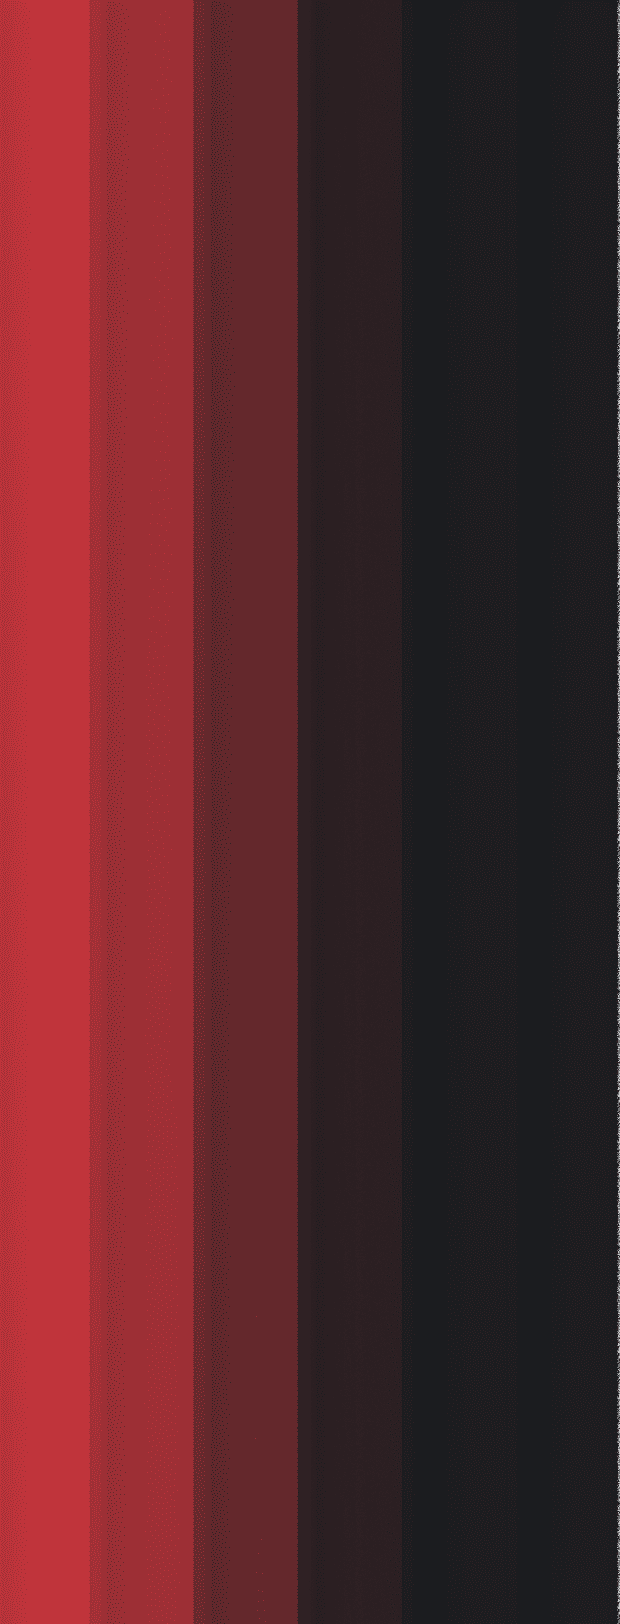
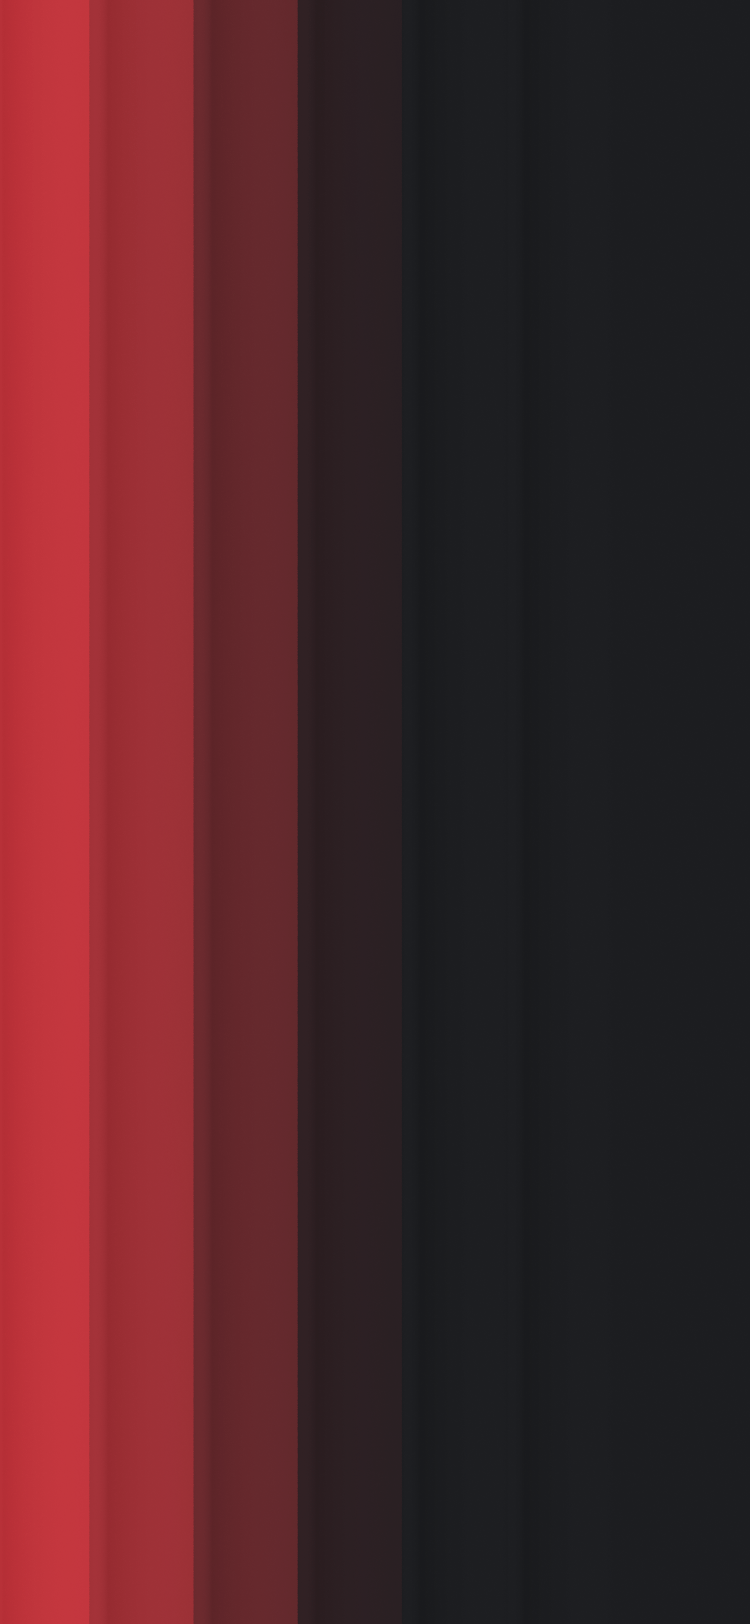
upd backgrounds

diff --git a/src/css/hero.css b/src/css/hero.css
@@ -91,6 +91,7 @@
   @media (min-resolution: 2dppx) {
     .hero {
       background: url(../images/tablet/hero/bg-hero-tablet@2x.png) no-repeat;
+      background-size: 100%;
     }
   }
 
@@ -124,6 +125,7 @@
   @media (min-resolution: 2dppx) {
     .hero {
       background: url(../images/desktop/hero/bg-hero-desktop@2x.png) no-repeat;
+      background-size: 100%;
     }
   }
 
